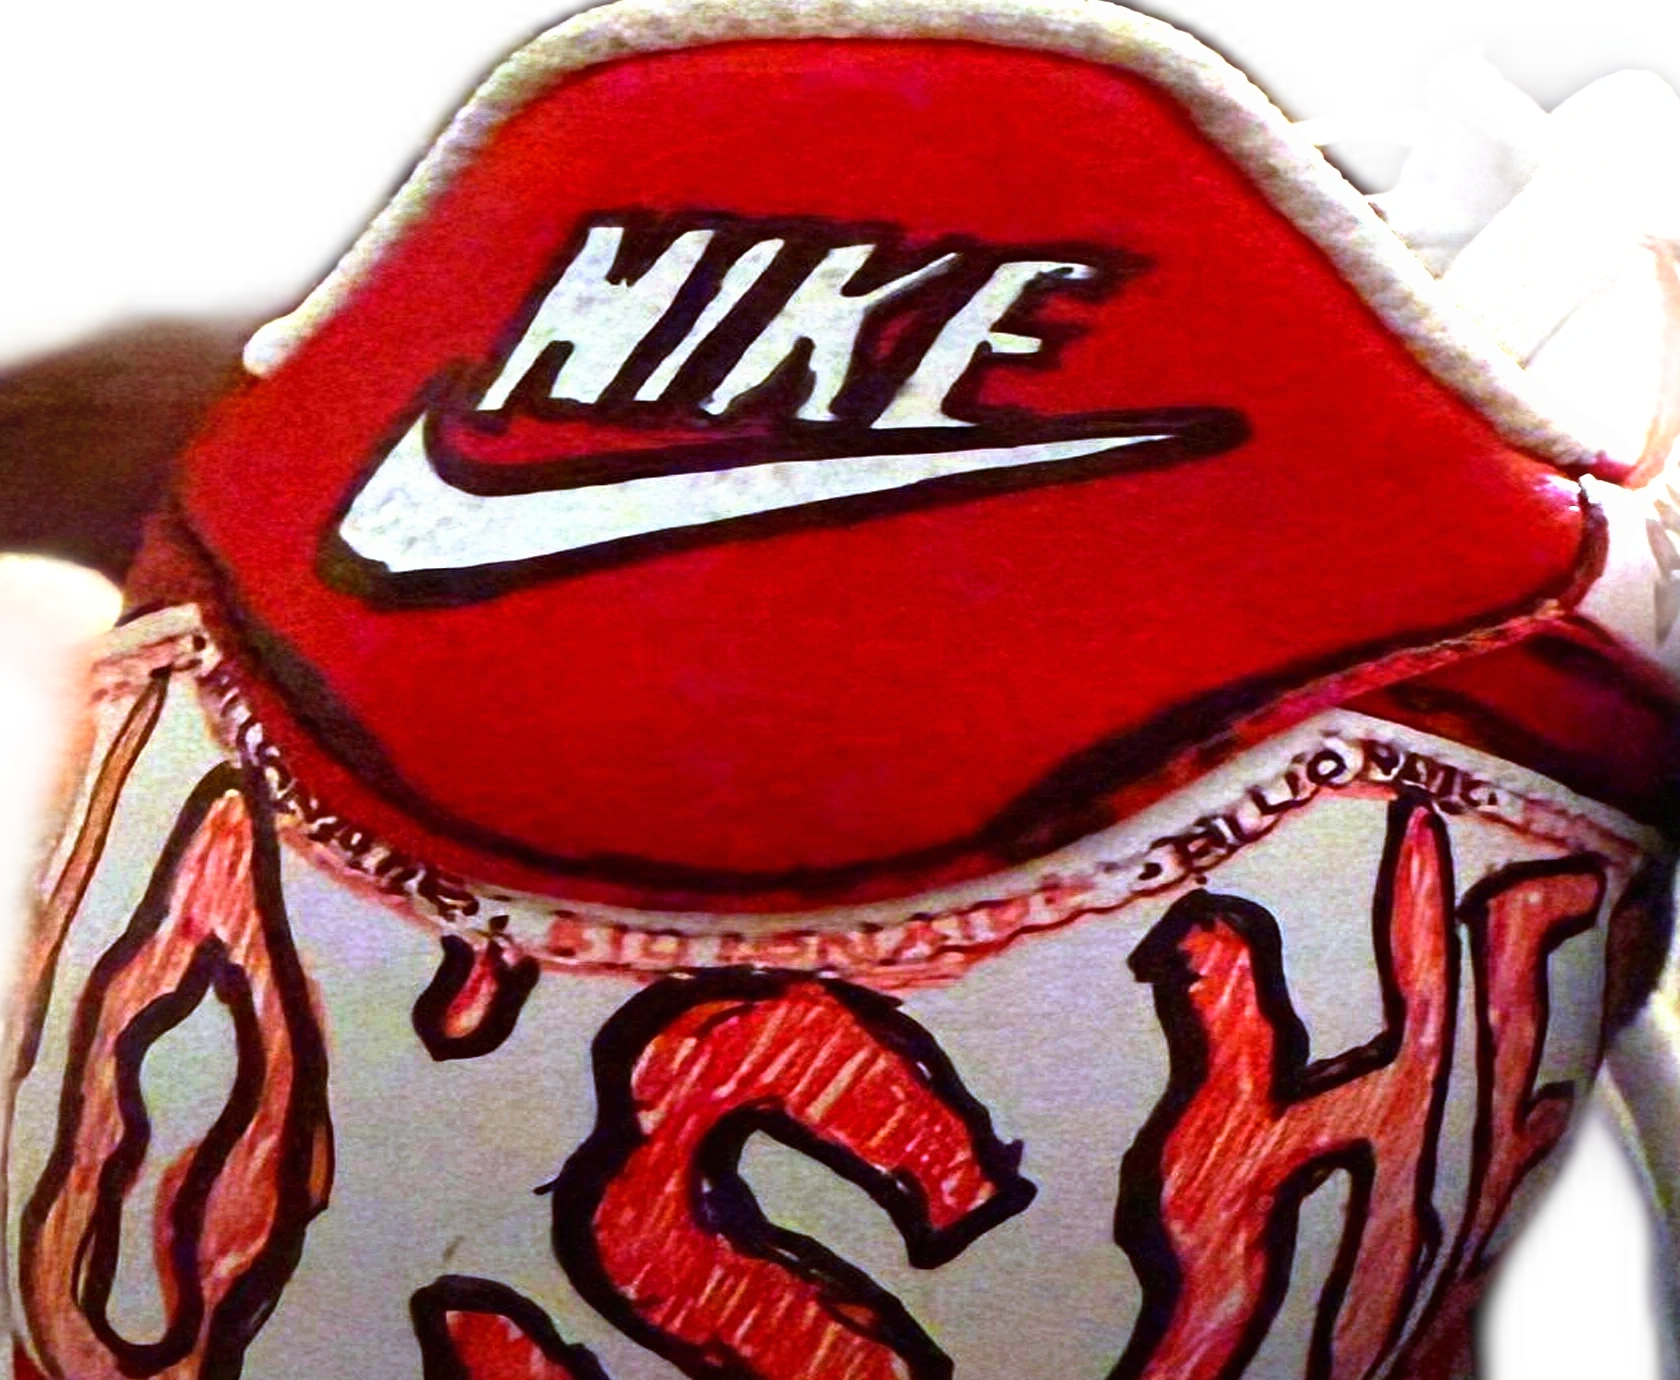
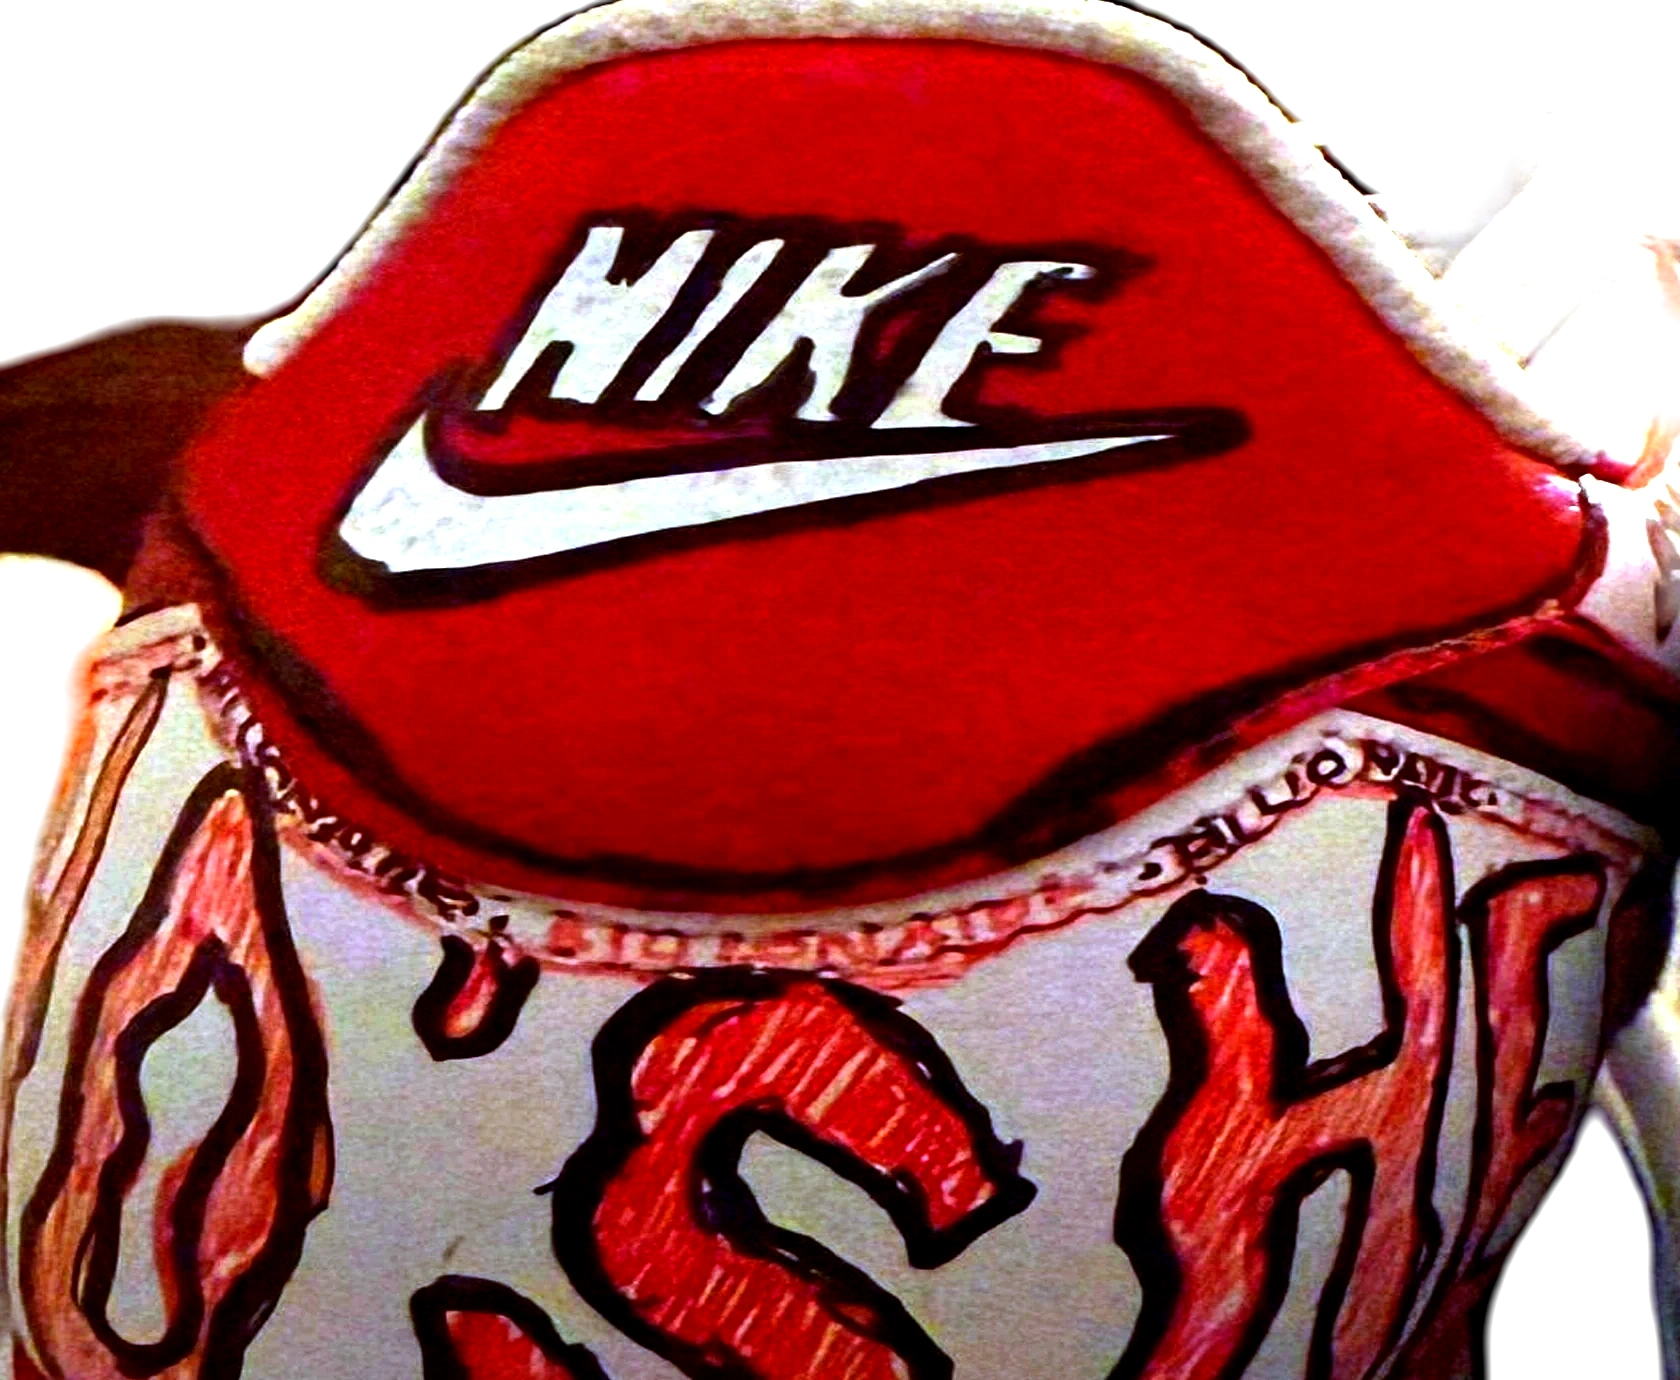
Collabs: art solid (no see-through fade), deeper ink
Claude-Session: https://claude.ai/code/session_0114D3hwBVCmsXTQfgBtgPvQ

diff --git a/site/public/collabs/viewer.js b/site/public/collabs/viewer.js
@@ -4237,7 +4237,7 @@ float seamY(float x) {
   vec4 aP = texture2D(uPlusZ, uv), aM = texture2D(uMinusZ, uv);
   vec4 side = mix(aM, aP, smoothstep(-0.2, 0.2, N.z));
   float above = smoothstep(-0.004, 0.008, yab);
-  float a = side.a * (1.0 - smoothstep(0.5, 0.8, abs(N.y))) * above;
+  float a = side.a * (1.0 - smoothstep(0.75, 0.95, abs(N.y))) * above;
   vec4 h = texture2D(uHeel, vec2(0.5 - P.z / 0.62, clamp(yab / 0.56, 0.0, 1.0)));
   float wh = h.a * smoothstep(0.45, 0.8, N.x) * smoothstep(0.72, 0.86, P.x) * above;
   // front: Hardin's front photo projected from the camera it was taken with (toe, vamp, signature, S-O-N-D-R, date)
